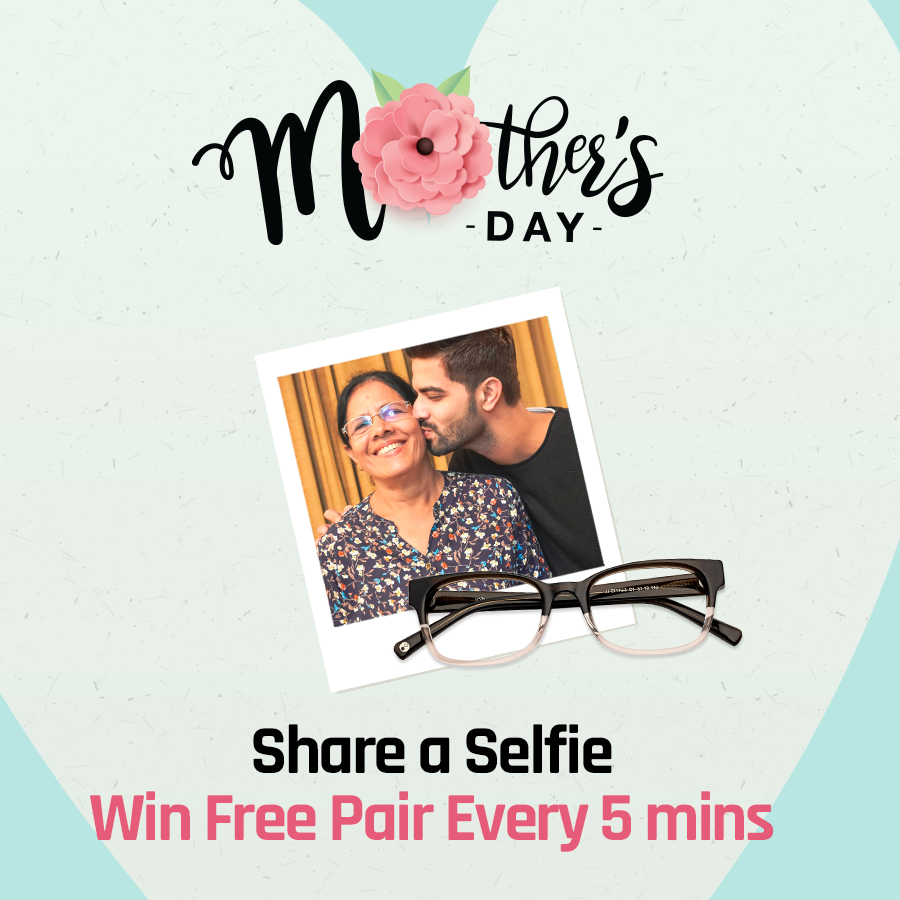
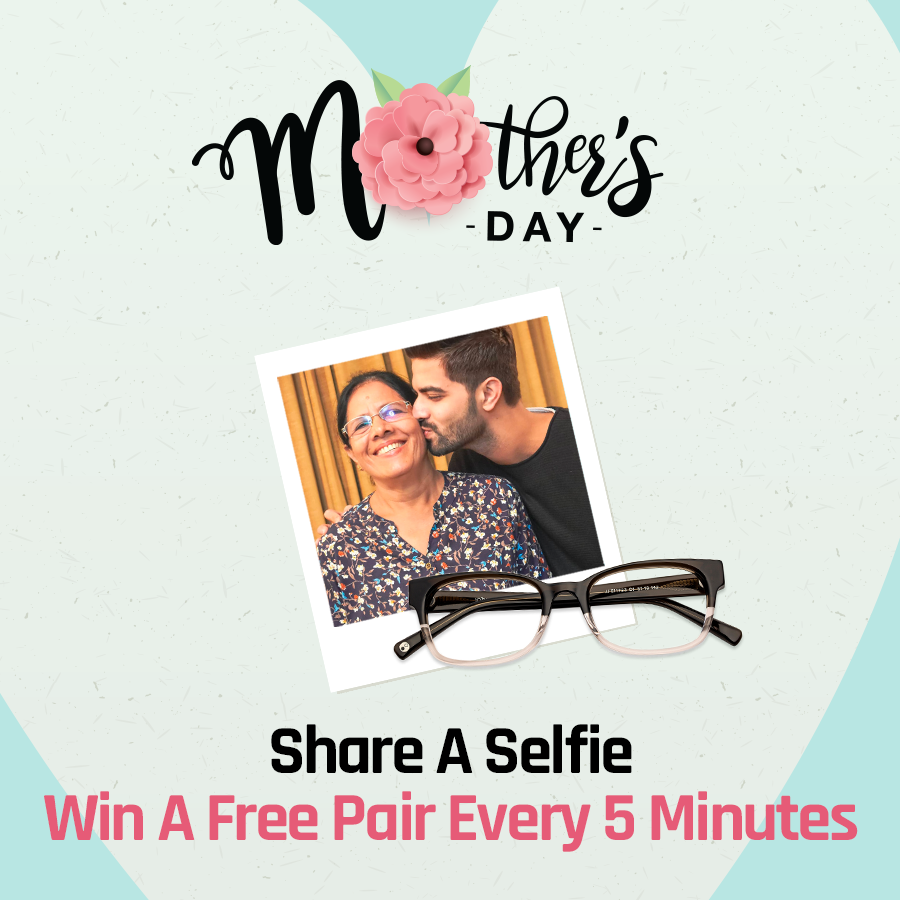
Change html

Changed region(s): [[0.0311, 0.7778, 0.9644, 0.9333]]

diff --git a/public/css/custom.css b/public/css/custom.css
@@ -59,11 +59,11 @@ ul.page-numbers a:hover,
 .video-frame iframe{
 	border: none;
 }
-.ui-popup iframe{
-	width: 520px;
-	border: none;
-	height: 550px;
-	margin-top: -25px;
+.ui-popup iframe {
+    width: 520px;
+    border: none;
+    height: 614px;
+    margin-top: -25px;
 }
 .ui-popup-container{
 	position: fixed;
@@ -104,21 +104,28 @@ a.sh-portfolio-category.sh-heading-font{
 .photo-img{
 	position: relative;
 }
+.photo-img-inner img {
+    object-fit: cover;
+    height: 259px;
+    width: 100%;
+}
 .photo-img-inner {
-	position: absolute;
+    position: absolute;
     right: 109px;
     top: 112px;
-    width: 241px;
-    height: 225px;
+    width: 283px;
+    height: 260px;
+    transform: rotate(-9deg);
     z-index: -1;
-    
 }
-.photo-img-inner img{
-  object-fit: cover;
-  height: 225px;
-  width: 100%;
 
+.sh-social-widgets {
+    display: flex;
+    text-align: center;
+    margin: 30px auto 0 auto;
+    max-width: 280px;
 }
+
 .banner{
 	background: url(../images/banner.jpg) center top no-repeat;
 	width: 100%;
@@ -412,6 +419,7 @@ ul.page-numbers .current:hover,
 	bottom: 0;
 	background: rgba(0, 0, 0, 0.8);
 	display: none;
+	z-index: 9999;
 }
 .popup-main{
 	background: #fff;
@@ -434,8 +442,15 @@ ul.page-numbers .current:hover,
 	padding-left: 20px;
 }
 .popup-terms li,.popup-terms p{
-	line-height: 24px;
+	line-height: 20px;
 	margin-bottom: 10px;
+	font-size: 12px;
+}
+.popup-terms li ul li{
+	list-style: lower-alpha;
+}
+.page-content h3{
+	margin-top: 35px;
 }
 
 @media screen and (max-width:1024px){
@@ -463,6 +478,22 @@ ul.page-numbers .current:hover,
 }
 
 @media screen and (max-width:767px){
+	.photo-img-inner img {
+		object-fit: cover;
+		height: 100%;
+		width: 100%;
+	}
+
+	.popup-box{
+		top:0px !important;
+	}
+
+	.photo-img-inner {
+		right: 21.7%;
+		top: 21.8%;
+		width: 53%;
+		height: 49%;
+	}
 	.banner{
 		height: 380px;
 		background: url(../images/banner-img.png) center top no-repeat;
@@ -542,5 +573,13 @@ ul.page-numbers .current:hover,
 .banner {
     height: 360px;
     margin-top: -28px;
+}
+}
+@media screen and (max-width: 360px){
+.photo-img-inner {
+    right: 21.6%;
+    top: 21.8%;
+    width: 53%;
+    height: 49.5%;
 }
 }

diff --git a/resources/views/front_end/pages/home.blade.php b/resources/views/front_end/pages/home.blade.php
@@ -147,47 +147,29 @@
                           </iframe></div>
                         <div class="sh-element-margin">
                           <h2>Happy Mother's Day</h2>
-                          <p><strong>Click, Share, and Win Eyewear worth Rs. 3000!
-                      </strong></p>
-                            <ol>
-                              <li> To enter the contest, send your name to the link given below.<br>
-                                <a href="http://lskt.me/MySpectacularMom">lskt.me/MySpectacularMom
-                                </a></li>
-                              <li> Share a fun or cute selfie with your Mom along with your message for her.</li>
-                              <li> A winner will be selected every five minutes.</li>
-                              <li>We will announce the winners every hour on our Website and Social Media*.</li>
-                              <li>The closing date of the entries for the contest is Monday,11th May, 4 PM.</li>
-                         </ol>
-                         <p><strong>Prize Communication:</strong></p>
-                            {{-- <ol>
-                              <li>Get a chance to get featured on Lenskart website and all social media handles.</li>
-                              <li>Win an eyewear worth 3000/-</li>
-                         </ol>  --}}
-
-                         <p>Images will be approved and winners will be chosen at random, on the basis of approval time. <br>
-
-                          You will receive your vouchers in 24-48 hours. </p>  
-                          
-                          <p>
-                          We’d love to see you win and feature you on the Lenskart Website and Social Media platforms. 
-                          Get started!
+                          <p>Share a Selfie & Win a Pair Free! <br>
+                            We’ll Choose a Winner Every 5 Minutes!
                           </p>
 
-                  
-                          <h2 class="sh-heading-content size-custom text-center">
+                            <h3>Click, Share, and Win Free Eyewear!</h3>
+                            <p>We’d love to see you win and feature you on the Lenskart Website and Social Media platforms. 
+                              Get started!</p>
+
+                              <h2 class="sh-heading-content size-custom text-center">
                             <a href="http://lskt.me/MySpectacularMom" class="participate">SHARE A SELFIE NOW</a>     
                           </h2>
 
-                          <a href="#" class="tc" id="term_cd"><i>*Terms & Conditions</i></a>
+                         <a href="#" class="tc popup-tc"><i>Terms & Conditions</i></a>
 
-                           <div class='term-cd' style="display: none;">
+
+                          <!--  <div class='term-cd' style="display: none;">
 
                               <p>1- By submitting your entry, you are indicating your agreement to these terms and conditions.</p>
                               <p>2- The last entries will be allowed until 12 AM. Fresh sets of entries start at 9 AM. </p>
                               <p>3- The images submitted should be clear and feature your mother. </p>
                               <p>4- Lenskart shall have the right to all content that in its sole discretion violates, or is alleged to violate, any applicable law or either the spirit or letter of these Terms of Use. We hereby acknowledge and affirm that these images constitute the opinion of the Individuals in their personal capacity, and may not represent official positions of Lenskart in any manner. </p>
                               <p>5- Lenskart retains all copyright to these images.</p>
-                          </div>
+                          </div> -->
 
                           <h2>Contest Entries</h2>
           
@@ -643,12 +625,50 @@
      <div data-role="popup" id="popupVideo" data-overlay-theme="b" data-theme="a" data-tolerance="15,15" class="ui-content">
           <iframe src="{{url('share')}}" width="497" height="298" seamless=""></iframe>
       </div>
+
+       <div class="popup-terms">
+      <div class="close-tc"></div>
+        <div class="popup-main">
+          <h2>Participation Terms and Conditions: </h2>
+         <ol>
+         <li> The contest is open to all Indian citizens of 18 years of age or more residing in India, except the employees and the family members of the Lenskart. </li>
+
+          <li> By participating in this Contest, the Contestant agrees to accept the Terms and Conditions of the Contest.</li> 
+          <li> Contest starts from __ PM IST on 9th May 2020 and ends at 4:00 PM IST on 11th May 2020 (“Contest Period”), both the dates inclusive. Contestants sending entries after the Contest Period will not be eligible for the prize. </li>
+          <li>No Purchase Required. Participation is optional. To participate in the Contest, the Contestants have to submit their entries through the timeline of the Lenskart Website.  </li>
+          <li>To participate in the Contest, the Participant needs to do the following activities.
+
+            <ul>
+              <li>Like the <a href="https://www.instagram.com/lenskart/?hl=en">@lenskart. </a></li>
+              <li>To enter the contest and mark the entry, the contestant needs to submit their Name, Phone Number and Email ID on the link <a href="http://lskt.me/MySpectacularMom">http://lskt.me/MySpectacularMom</a></li>
+              <li>Share a fun or cute selfie with his/her Mom along with your message for her. </li>
+            </ul>
+          </li>
+
+          <li>The sole discretion of choosing the contest winner lies with the contest organizers and no inquiries will be entertained regarding the winning criterion. </li>
+          <li>Winners will be announced every 1 hour from the Contest start date, that is, 9th May 2020. This excludes time from 12 AM-9 AM each day, in the duration of the contest.</li>
+          <li>The winners will be announced on Lenskart’s website and Instagram page and will be contacted by the representatives of the organizers through their contact details provided by the winner. In case the winner is not traceable, the organizers have the sole discretion to either forfeit the prize or to pass on the prize to the next best entry. </li>
+          <li>Vouchers worth Rs. 999 (applicable on all collections of Vincent Chase and John Jacobs) will be shared with winners within 24-48 hours of winning via SMS and email.</li>
+          <li>Lenskart shall have the right to all content that in its sole discretion violates, or is alleged to violate, any applicable law or either the spirit or letter of these Terms of Use. Lenskart retains all copyright to these images.</li>
+          <li>For more information or queries, get in touch here: <a href="mailto:support@lenskart.com">support@lenskart</a>.com</li>
+         </ol>
+
+          
+        </div>
+      </div>
       <!-- popup end -->
       <script src="{{asset('js/jquery.js')}}"></script>
       <script src="{{asset('js/index.js')}}"></script>
       <script src="{{asset('js/jquery.mobile-1.4.5.min.js')}}"></script>
       <script src="{{asset('js/popup-iframe-map.js')}}"></script>
       <script src="{{asset('js/popup-iframe-video.js')}}"></script>
-      
+      <script>
+        $('.popup-tc').click(function(){
+          $('.popup-terms').fadeIn();
+        });
+        $('.close-tc').click(function(){
+          $('.popup-terms').fadeOut();
+        })
+      </script>
   </body>
 </html>
